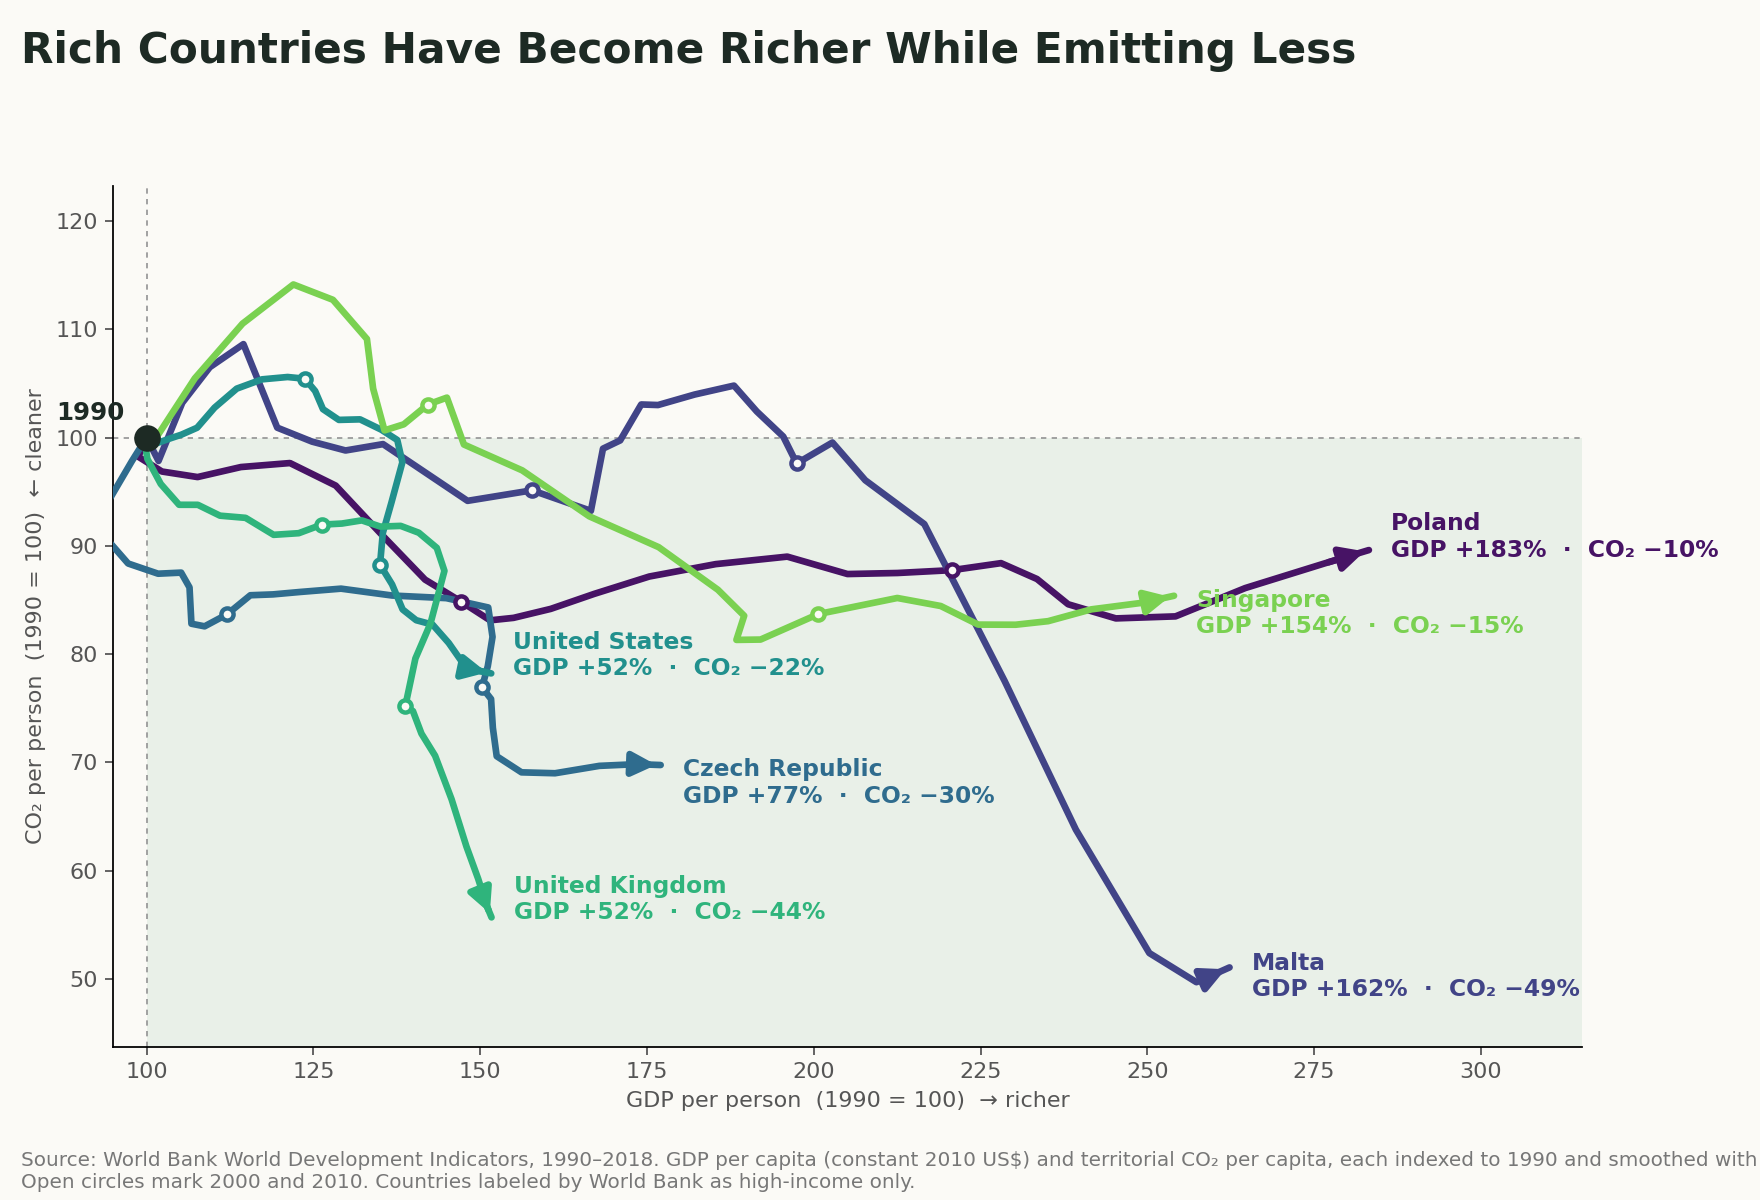
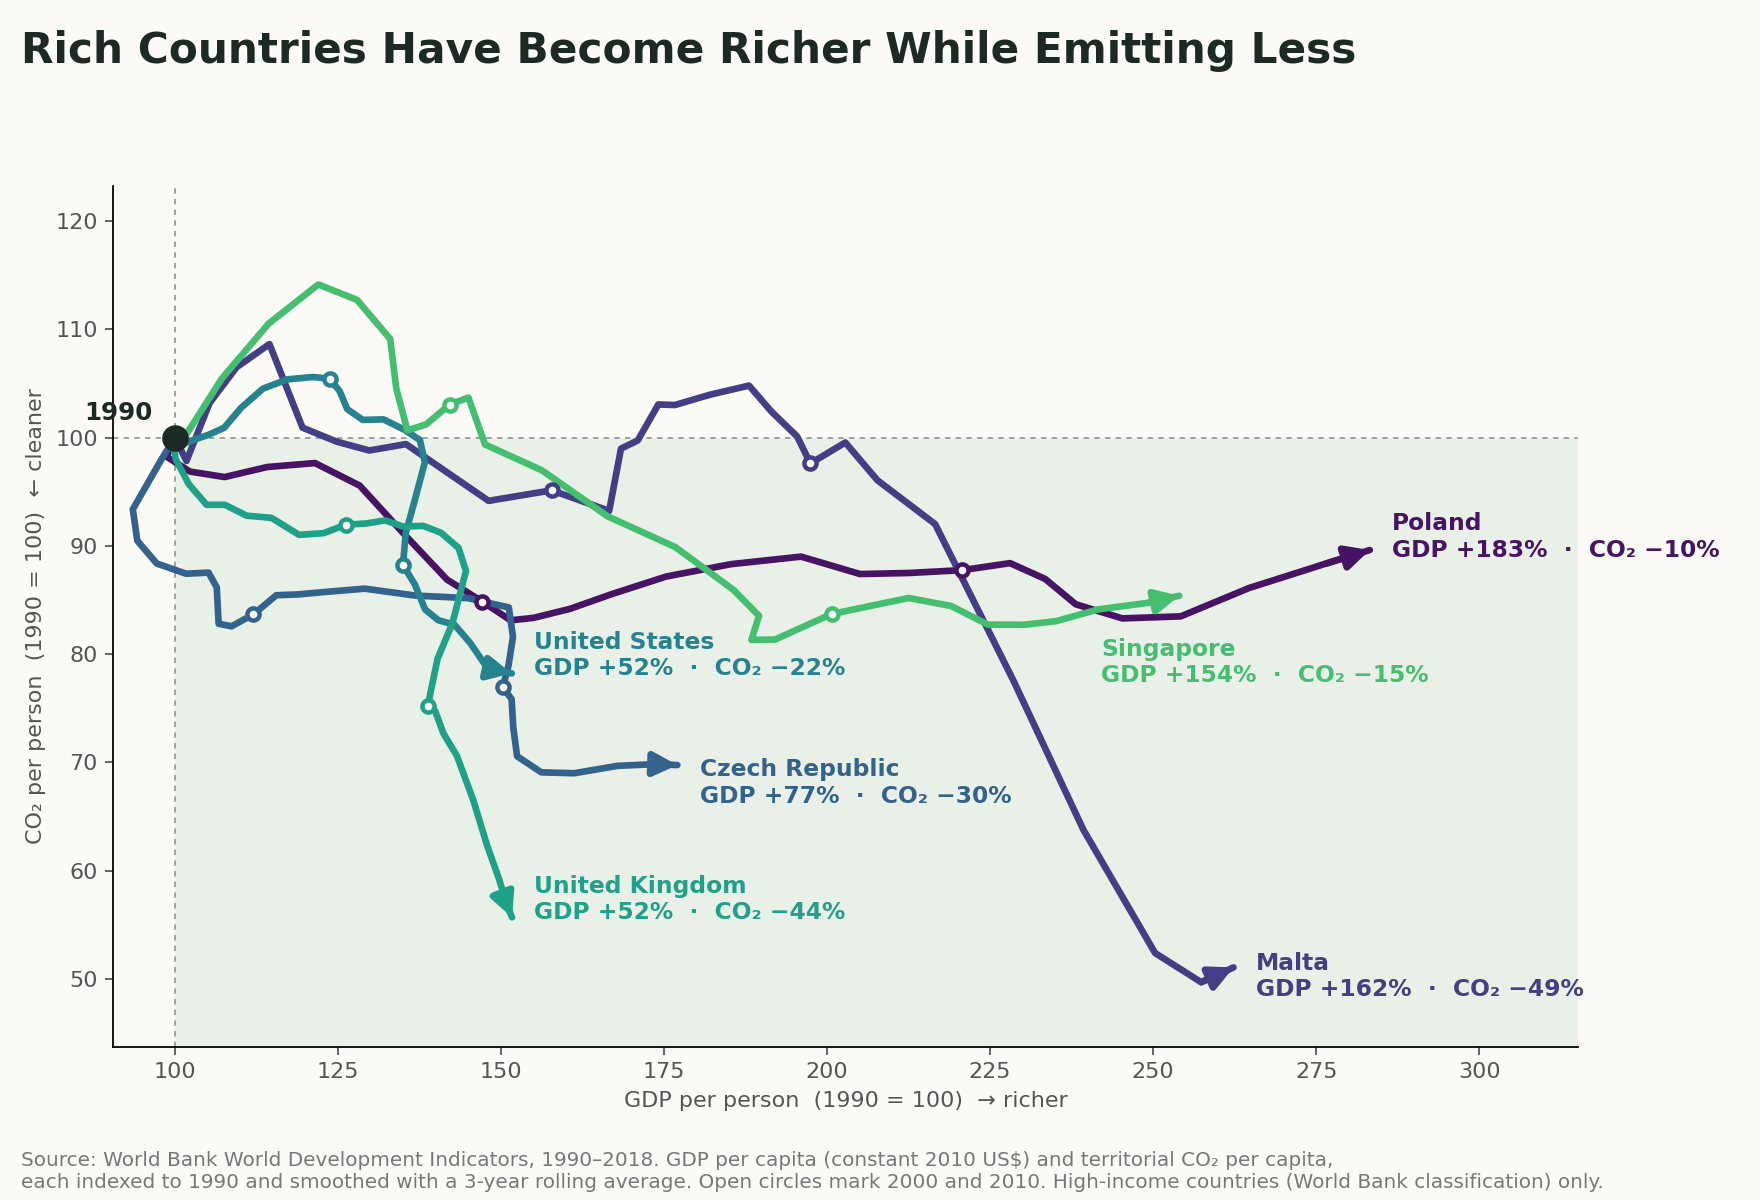
update

diff --git a/projects/project2/index.html b/projects/project2/index.html
@@ -204,15 +204,15 @@
             <span class="score dec">-1</span>
             <strong>Clipped axes, messy trend lines, and 3-year rolling averages.</strong>
             The x-axis and y-axis are both clipped to the range of the data, which makes the lines look more dramatic than they would if the axes were extended to 0. 
-            The trend lines are also messy, with some lines crossing over each other or even moving backwards (due to GDP falling or growing).
+            The trend lines are also messy, with some lines crossing over each other or even moving backwards (in years when GDP fell or emissions rose).
             The lines are also smoothed with a 3-year rolling average, which is a reasonable choice to reduce noise, but it also makes the lines smoother than they would be if the raw data were plotted.
             These choices are likely to be misleading, as they exaggerate the effect of rising GDP and falling emissions.
           </li>
           <li>
-            <span class="score dec">-0.5</span>
+            <span class="score dec">-1</span>
             <strong>Title framing</strong>
-            The title says "Many Rich Countries" even though only six hand-picked countries are shown, which invites the reader to generalize. 
-            The axis labels and the shaded quadrant tell the reader how to interpret the chart before they look at the numbers, and the arrows pointing reinforces the idea that this trend will continue.
+            The title says "Rich Countries" even though only six hand-picked countries are shown, which invites the reader to generalize. 
+            The axis labels and the shaded quadrant tell the reader how to interpret the chart before they look at the numbers, and the arrowheads reinforce the idea that this trend will continue.
           </li>
           <li>
             <span class="score dec">-0.5</span>
@@ -229,7 +229,7 @@
         <figure>
           <img src="page2_income_ladder.png"
                alt="Light-background bar chart of median CO2 emissions per person in 2018 for ten equal-size groups of countries ordered by GDP per person.">
-           <figcaption>Median CO<sub>2</sub> per person in 2018, with every country grouped into ten equal-size bands by GDP per person. Each step up the income ladder brings higher emissions.</figcaption>
+           <figcaption>Median CO<sub>2</sub> per person in 2018, with every country grouped into ten equal-size bands by GDP per person. Emissions rise with almost every step up the GDP bins.</figcaption>
         </figure>
 
         <p>Design Decisions and Rationale:</p>
@@ -256,7 +256,7 @@
             <strong>Grey to red gradient and title</strong>
             The bars shift from grey to red as income rises, tying wealth to danger visually before the reader reads any text. 
             The annotation tells the reader what to think, and the title "Higher GDP Countries Emit More" frames this as a direct consequence of wealth.
-            Both are accurate, but they invite the reader to treat getting richer as the cause rather than possible a correlation.
+            Both are accurate, but they invite the reader to treat getting richer as the cause rather than possibly just a correlation.
           </li>
           <li>
             <span class="score ear">+1</span>
